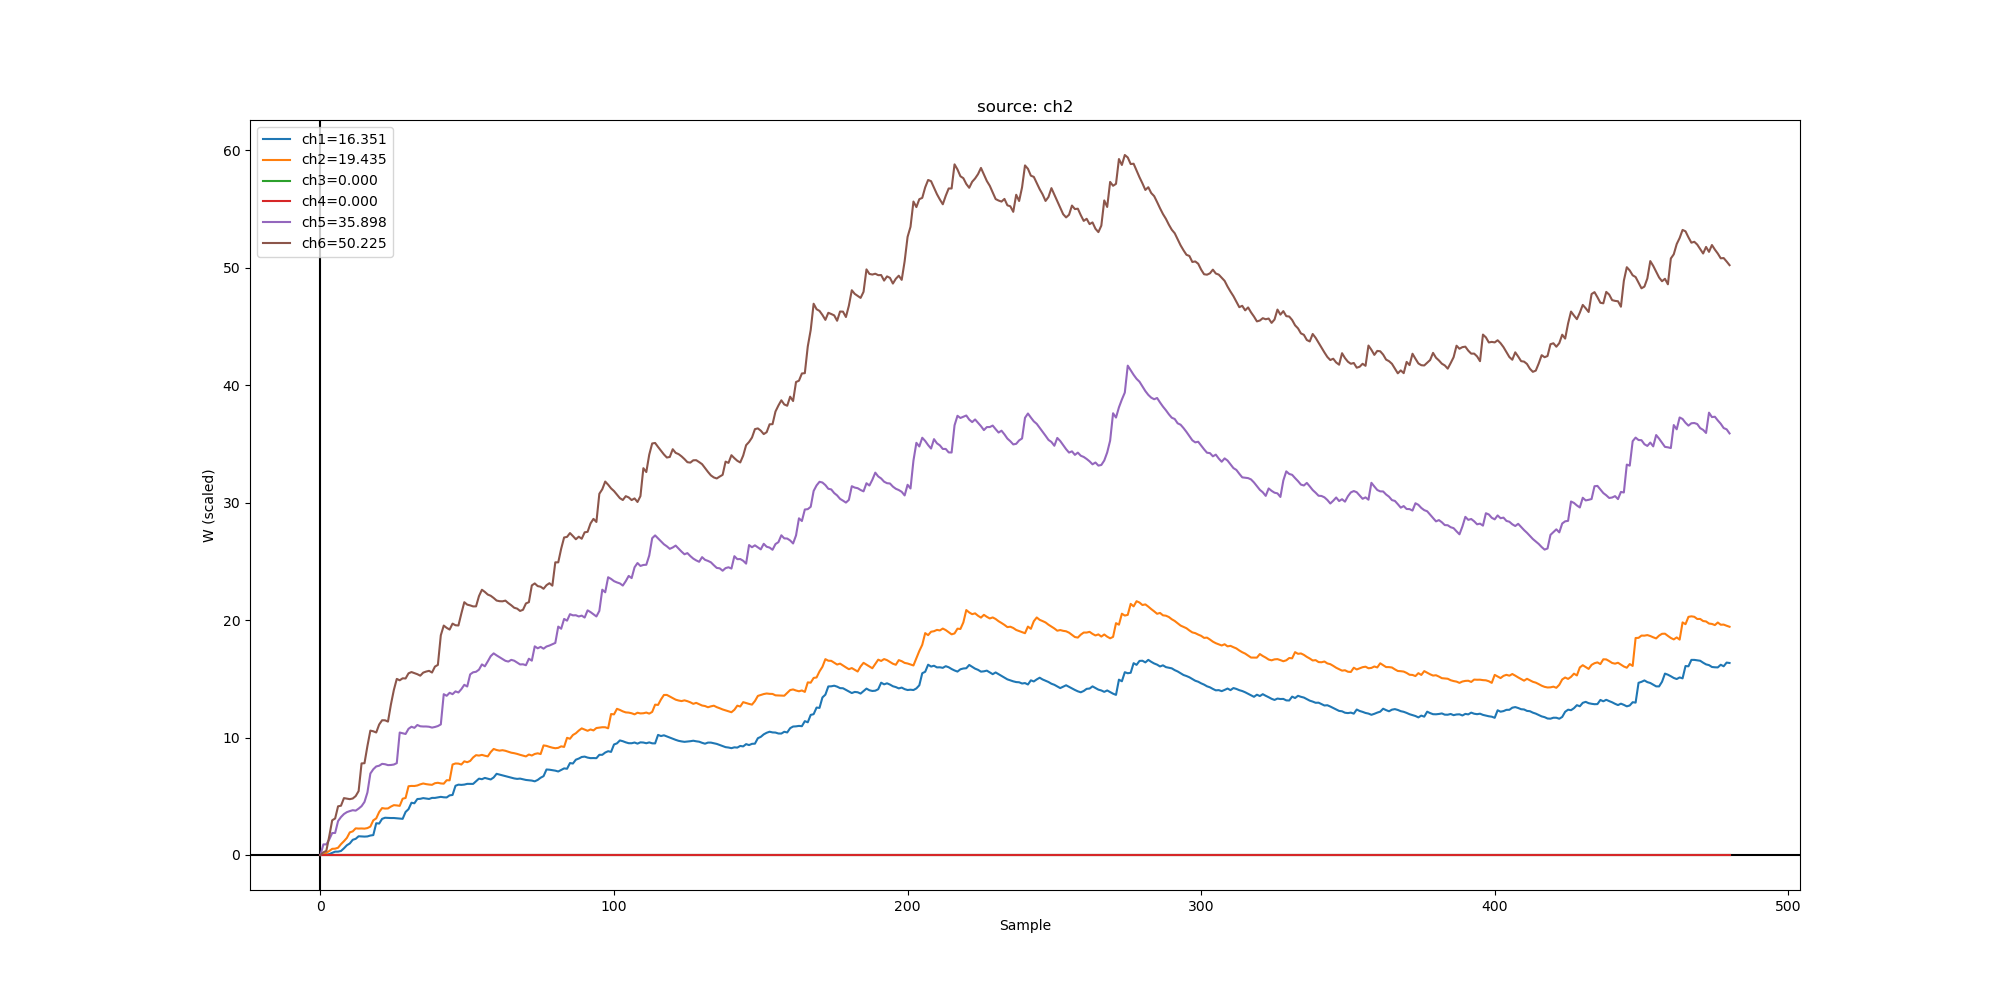
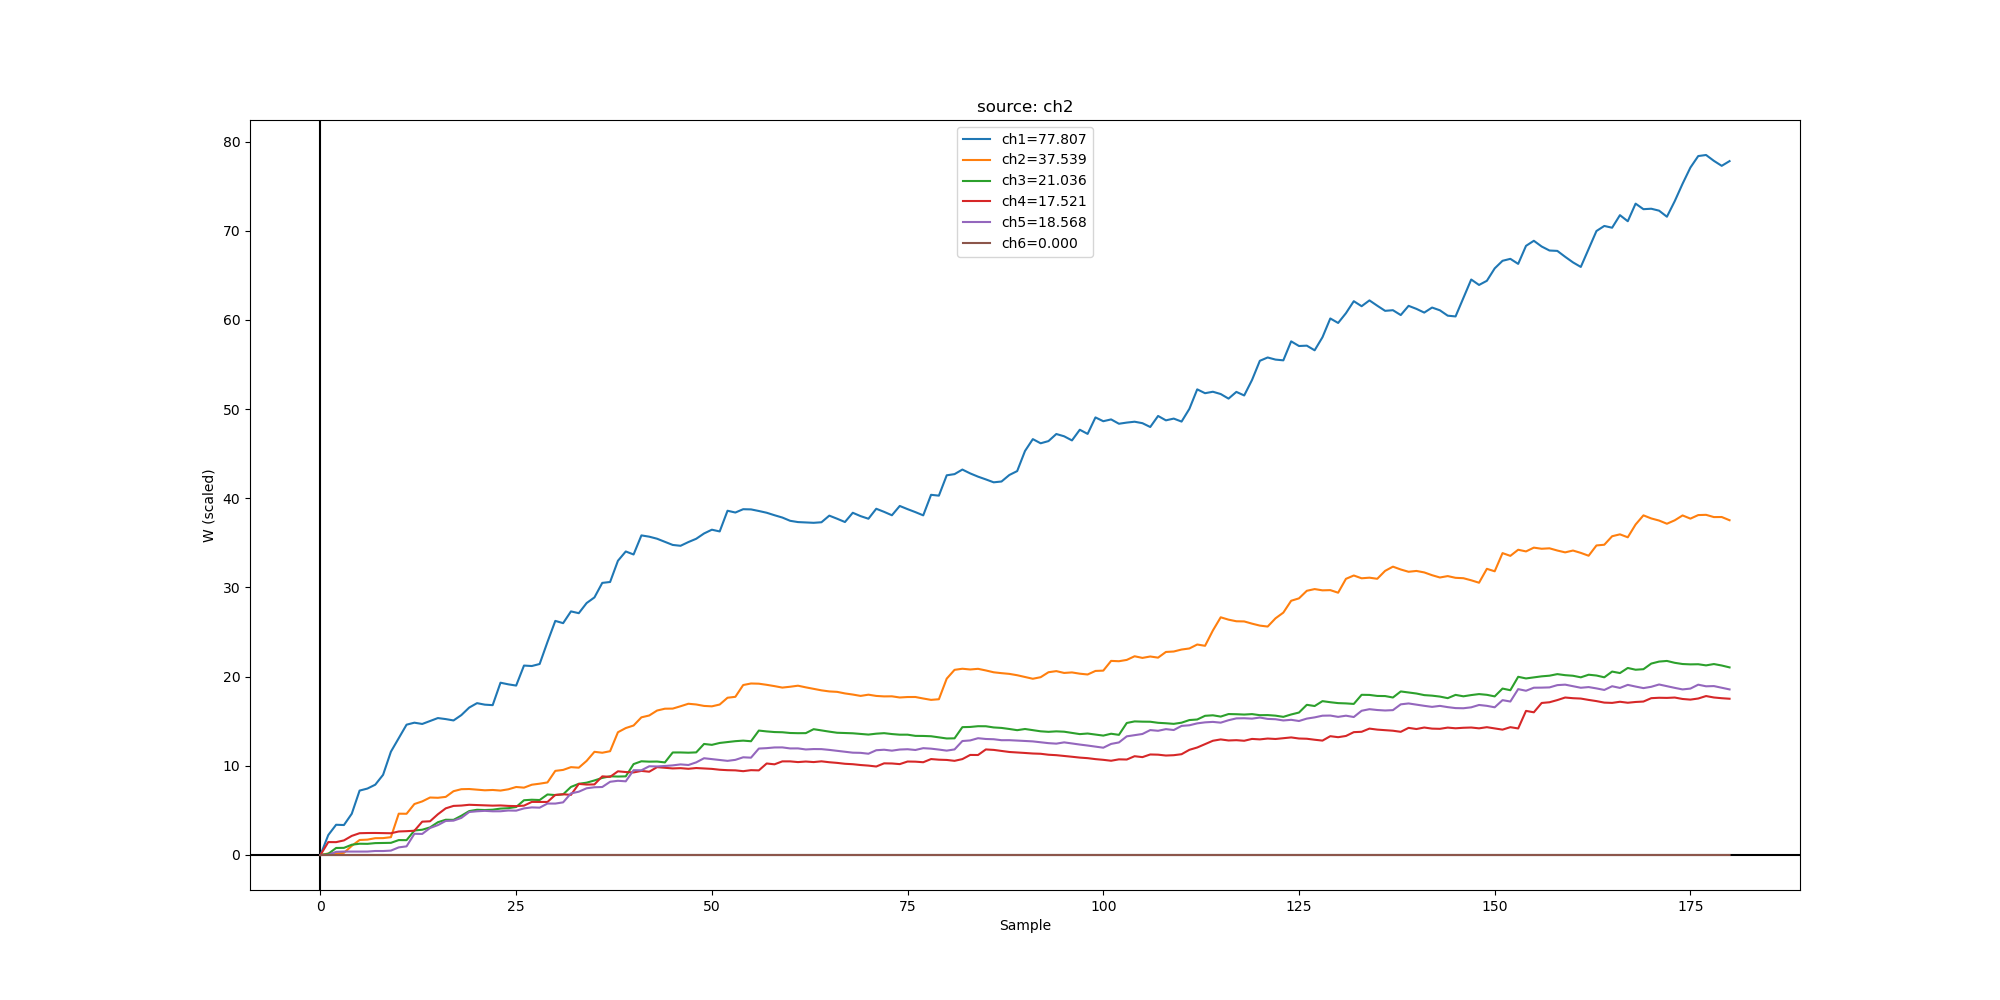
pe_comparison output improvement

diff --git a/algorithm/pe_comparison.py b/algorithm/pe_comparison.py
@@ -1,11 +1,8 @@
 from alg import PE
 import datetime
+import os
 
-export_path = '/home/pi/SMRBS-ESP32/algorithm/pe_comparison/run7/'
-export_summary_fn = 'summary.txt'
-chunk = 500
-
-def init_sumfile():
+def init_sumfile(samp_dp, samp_ds, chunk, alpha):
     now = datetime.datetime.now()
     now = now.strftime("%Y/%m/%d:%H:%M:%S")
     with open(export_path + export_summary_fn, 'w', encoding='utf-8') as f:
@@ -22,6 +19,12 @@ def init_sumfile():
         f.write('height_cm: -3 (on table)\n')
         f.write('run: 1\n')
         f.write('\n')
+        f.write('>> Parameter\n')
+        f.write('samp_dp = {0}\n'.format(samp_dp))
+        f.write('samp_ds = {0}\n'.format(samp_ds))
+        f.write('chunk =   {0}\n'.format(chunk))
+        f.write('alpha =   {0}\n'.format(alpha))
+        f.write('\n')
         f.write('>> Figure:\n')
         f.write('content: power estimation result of each individual channel\n')
         f.write('x-axis: samples\n')
@@ -33,7 +36,26 @@ def init_sumfile():
         
 
 if __name__ == '__main__':
+    # set parameters
+    while True:
+        exp_num = input('Enter pe_comparison.py experiment run number: (number, \'q\' to quit) ')
+        export_path = '/home/pi/SMRBS-ESP32/algorithm/pe_comparison/run{0}/'.format(exp_num)
+        export_summary_fn = 'summary.txt'
+        if exp_num == 'q':
+            exit()
+        elif os.path.exists(export_path):
+            print('Folder already exist, delete it or give it a different number.')
+        else:
+            os.mkdir(export_path)
+            break
+
+    # run alg.py
+    chunk = 200
     pe = PE(chunk_=chunk)
+    samp_dp = pe.samp_dp
+    samp_ds = pe.samp_ds
+    chunk = pe.chunk
+    alpha = pe.chunk
     i = -1
     ch = []
     export_lines = {1:'', 2:'', 3:'', 4:'', 5:'', 6:''}
@@ -50,7 +72,7 @@ if __name__ == '__main__':
                 pe.plt_pe1(maxch=ch[j], fi=j,
                                fn=export_path)
             # export lines
-            init_sumfile()
+            init_sumfile(samp_dp, samp_ds, chunk, alpha)
             with open(export_path + export_summary_fn, 'a', encoding='utf-8') as f:
                 for j in range(len(export_lines)):
                     f.write(export_lines[j+1])
